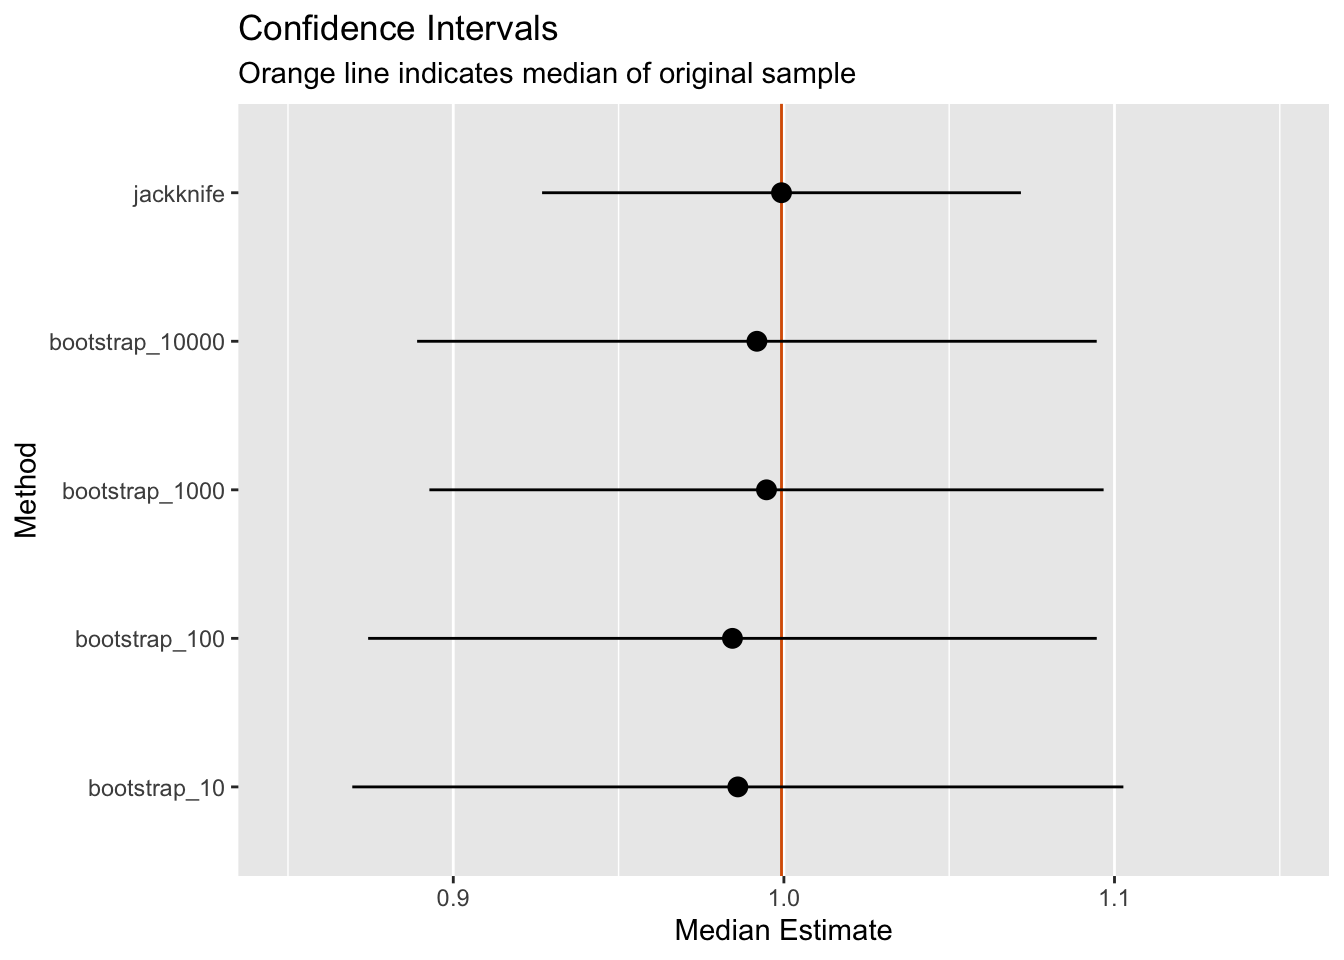
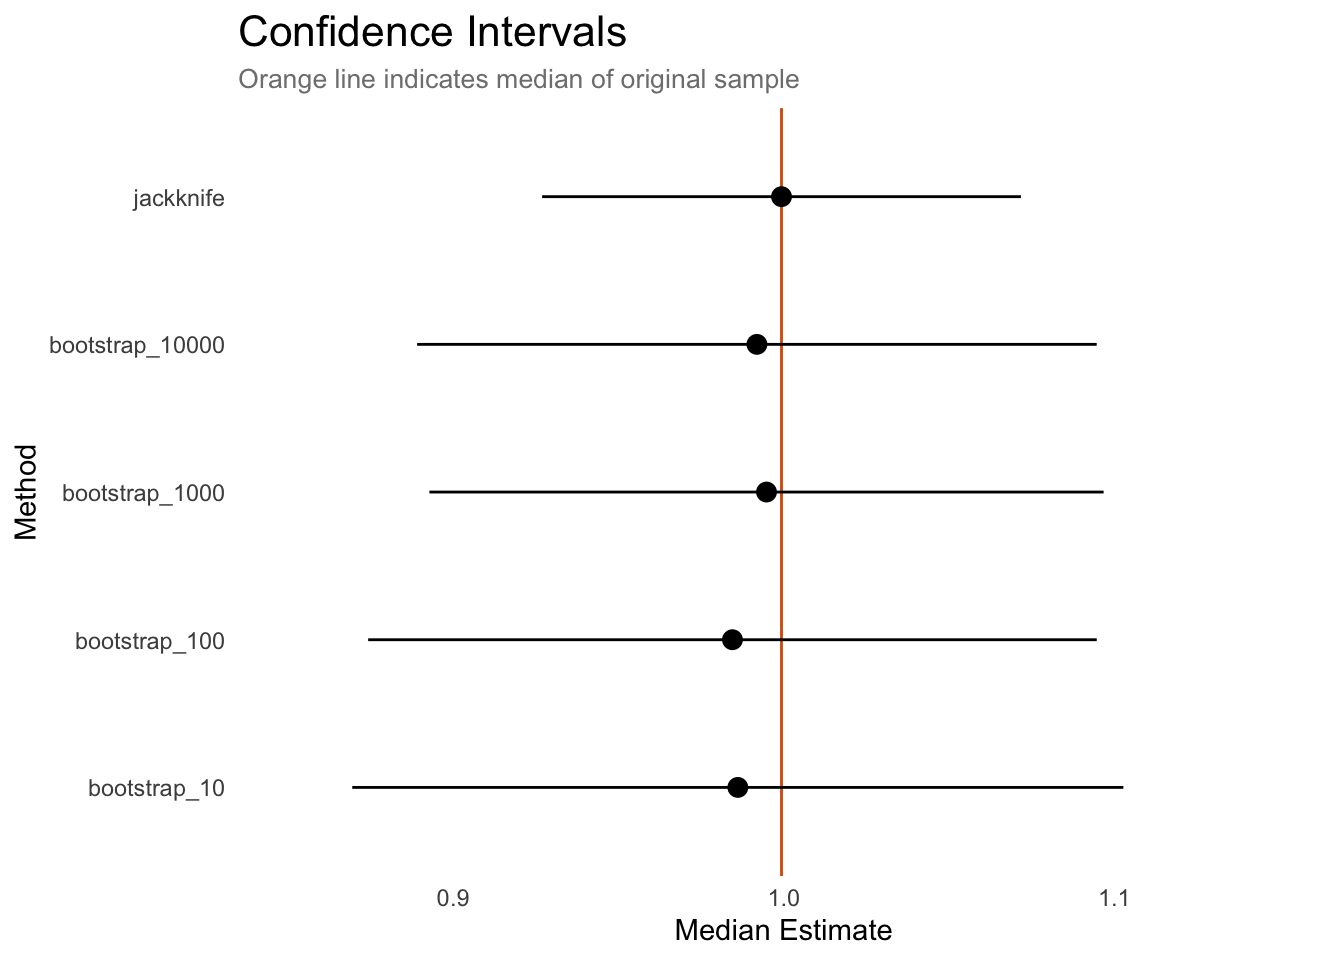
Update to show graph results

diff --git a/public/blog/resampling-methods/index.html b/public/blog/resampling-methods/index.html
@@ -263,6 +263,8 @@
 x     <span class="o">&lt;-</span> <span class="kp">exp</span><span class="p">(</span>rnorm<span class="p">(</span>n<span class="p">))</span>
 x_df  <span class="o">&lt;-</span> <span class="kt">data.frame</span><span class="p">(</span>x <span class="o">=</span> x<span class="p">)</span>
 theta <span class="o">&lt;-</span> median<span class="p">(</span>x<span class="p">)</span></code></pre></div>
+<p><img src="/blog/2020-03-05-resampling-methods_files/figure-html/graph-1.png" width="672" /></p>
+
 <p>For the bootstrap method, one element that I haven&rsquo;t touched on much yet is the choice of B. Let&rsquo;s try a few different values.</p>
 <div class="highlight"><pre class="chroma"><code class="language-r" data-lang="r">B  <span class="o">&lt;-</span> <span class="kt">c</span><span class="p">(</span><span class="m">10</span><span class="p">,</span> <span class="m">100</span><span class="p">,</span> <span class="m">1000</span><span class="p">,</span> <span class="m">10000</span><span class="p">)</span>
 
